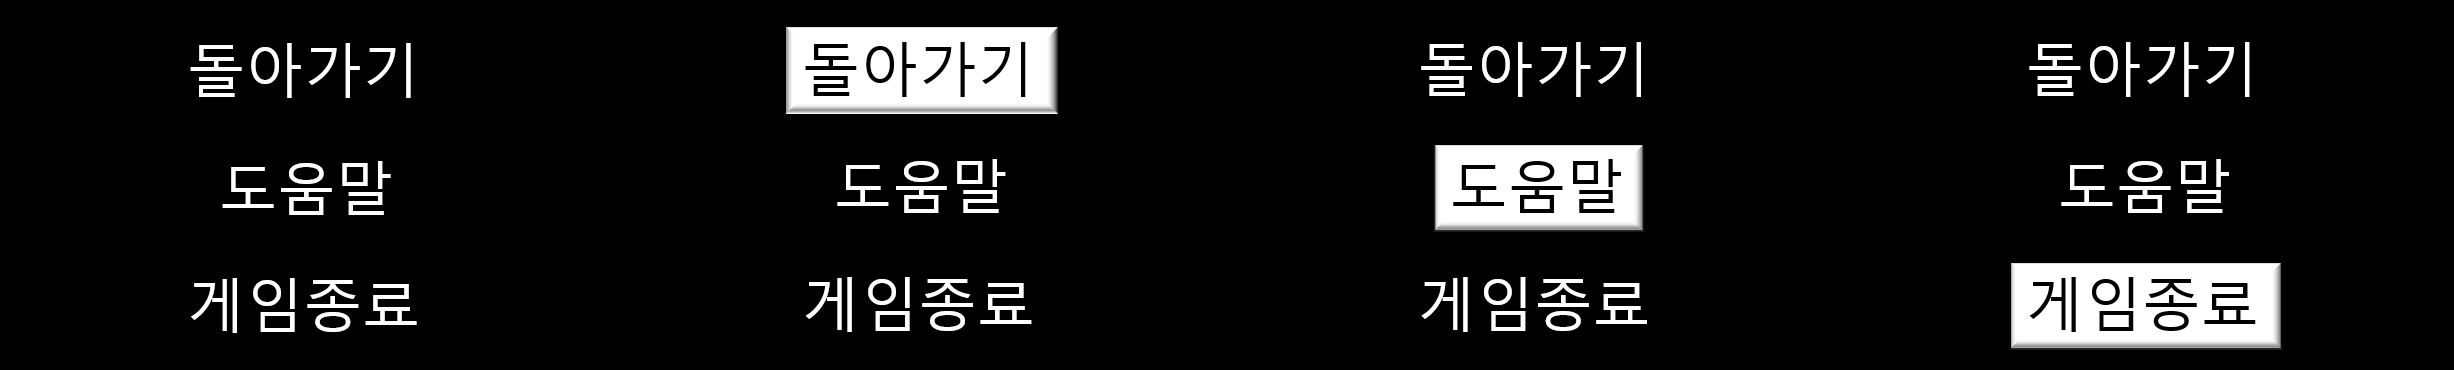
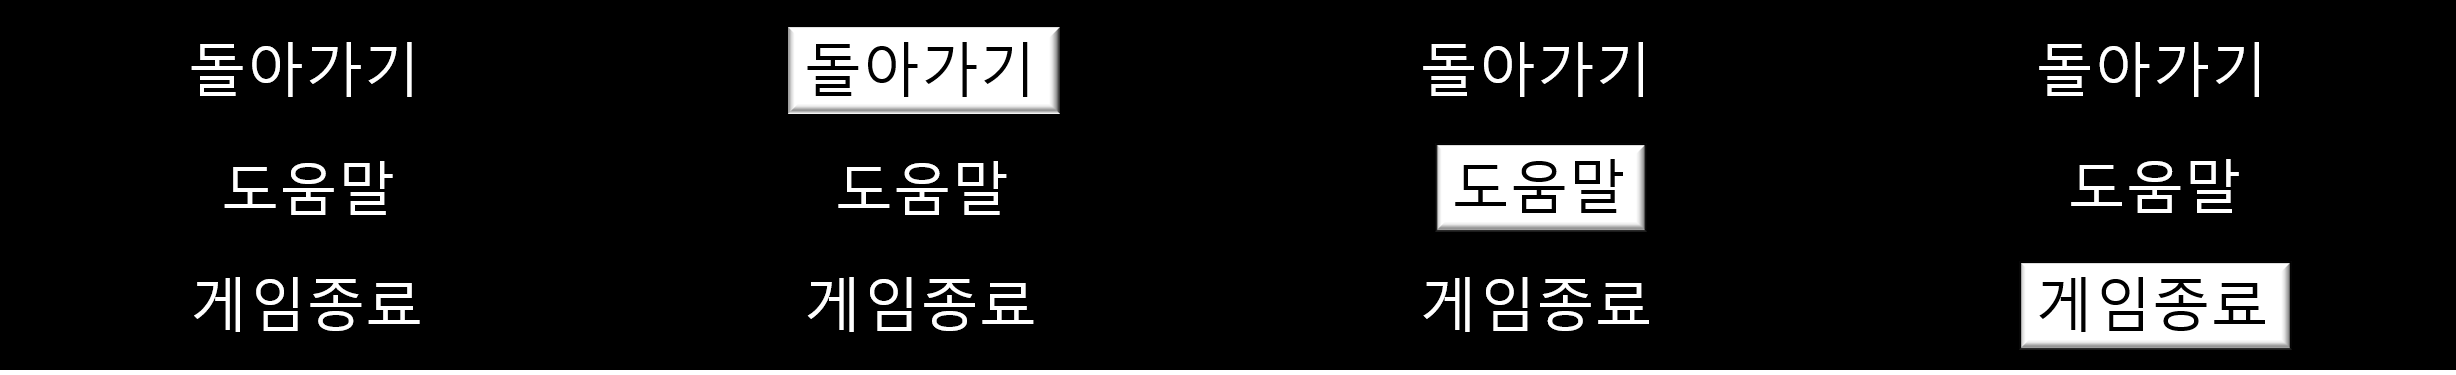
이미지 변경 및 돌아가기 클릭 구현
이미지 도트 위치 안 맞는 점 수정 및 돌아가기 클릭 시 게임으로 전환

diff --git a/Drills/2DGP_Project/Run&Return/pause_state.py b/Drills/2DGP_Project/Run&Return/pause_state.py
@@ -28,7 +28,7 @@ def draw():
     global pause_image, choose_menu
     clear_canvas()
     pause_image.draw(400,300)
-    choose_menu.clip_draw(613 * choose_menu_pivot_num,0,613,370,(706+91)/2, WINDOW_HEIGHT - (592+223)/2)
+    choose_menu.clip_draw(614 * choose_menu_pivot_num,0,614,370,(706+91)/2, WINDOW_HEIGHT - (592+223)/2)
     update_canvas()
 
 
@@ -43,13 +43,19 @@ def handle_events():
         elif event.type == SDL_KEYDOWN and event.key == SDLK_ESCAPE:
             game_framework.pop_state()
         elif event.type == SDL_MOUSEMOTION:
-            if(event.x < 593 and event.x > 90):
-                if (window_to_pico_coordinate_system(event.y) < 355):
+            if(event.x < 535 and event.x > 265):
+                if (window_to_pico_coordinate_system(event.y) < 358 and window_to_pico_coordinate_system(event.y) > 264):
                     choose_menu_pivot_num = 1
                 else:
                     choose_menu_pivot_num = 0
+            else:
+                choose_menu_pivot_num = 0
             pass
         elif event.type == SDL_MOUSEBUTTONDOWN:
+            if (event.x < 535 and event.x > 265):
+                if (window_to_pico_coordinate_system(event.y) < 358 and window_to_pico_coordinate_system(
+                    event.y) > 264):
+                    game_framework.pop_state()
             pass
 
 def window_to_pico_coordinate_system(num):      # pico 환경과, 윈도우 환경 마우스 좌표 값 조정 함수
